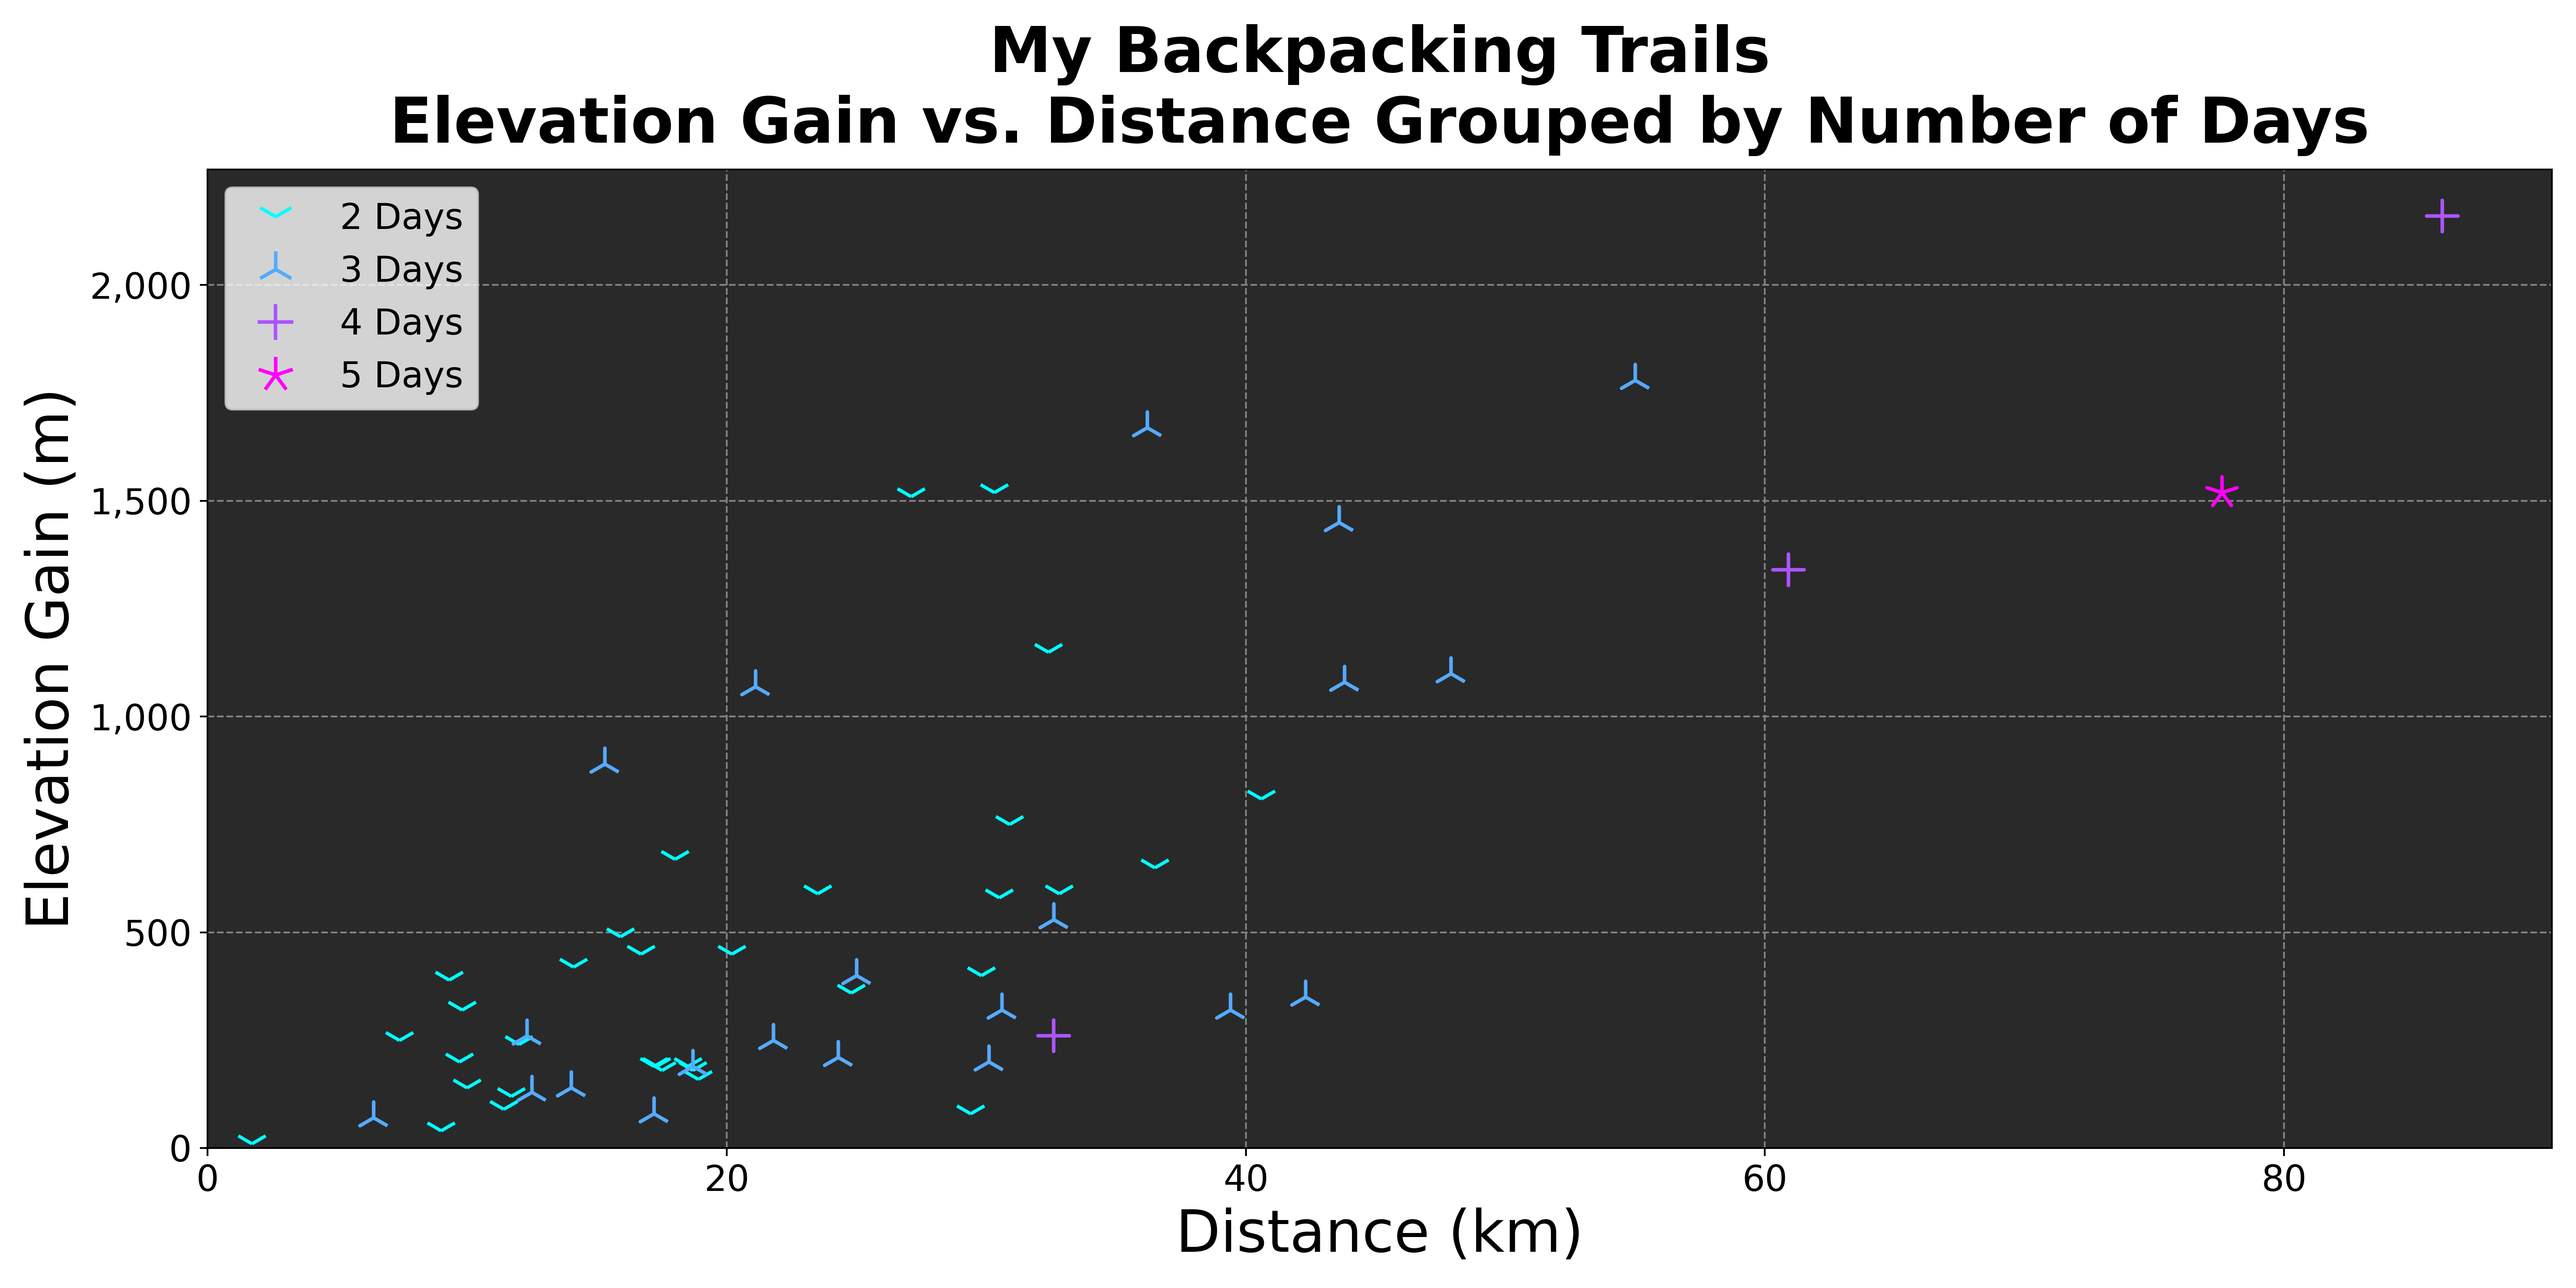
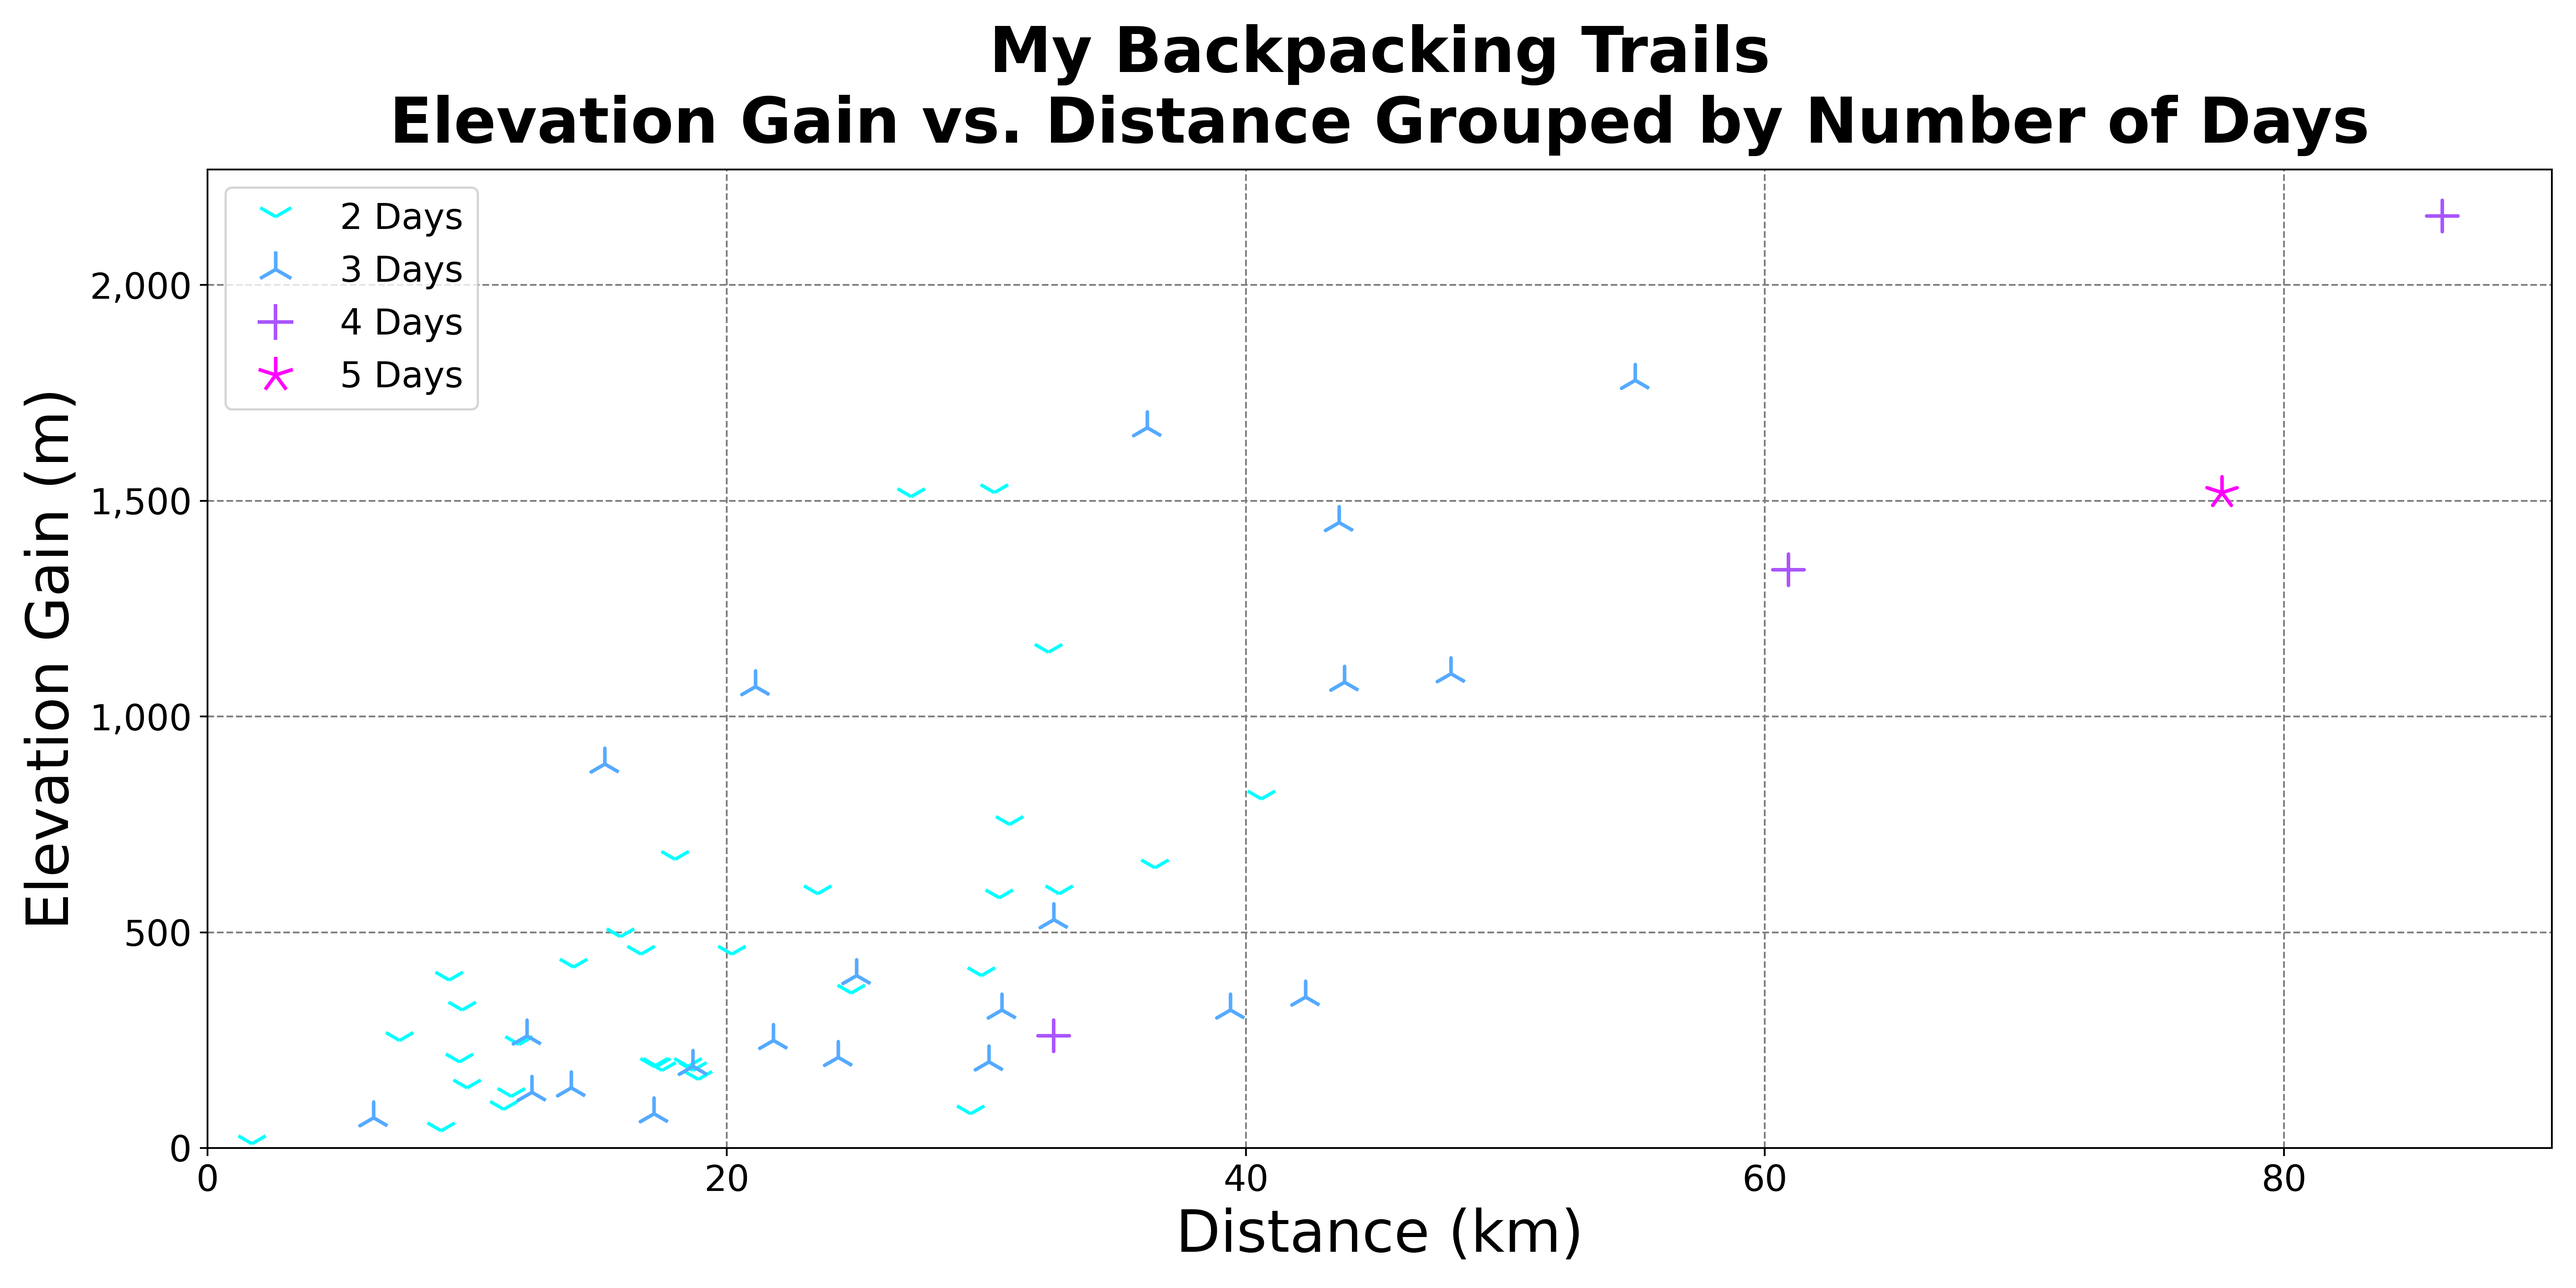
Remove stale images and fix README links
Several plot titles dropped their leading colon in an earlier edit,
which changed the filenames plotFilename() generates. The old
hyphenated filenames were orphaned but never removed, so images/ had
duplicate copies under both names. Removed the 9 stale files and
pointed the README's plot links at the current filenames.

diff --git a/README.md b/README.md
@@ -12,14 +12,14 @@ MyTrails is a project exploring my personal backpacking statistics, featuring a 
 
 ## Plots
 
-![Elevation gain vs. distance, by number of days](images/MyBackpackingTrails-ElevationGainvsDistanceGroupedbyNumberofDays.png)
-![Cumulative distance over time](images/MyBackpackingTrails-CumulativeDistance.png)
+![Elevation gain vs. distance, by number of days](images/MyBackpackingTrailsElevationGainvsDistanceGroupedbyNumberofDays.png)
+![Cumulative distance over time](images/MyBackpackingTrailsCumulativeDistance.png)
 ![Distance grouped by park](images/MyBackpackingTrails-DistanceGroupedbyPark.png)
-![Trail counts by day of week and month](images/MyBackpackingTrails-TrailCountsbyDayofWeekandMonth.png)
-![Trail density by day of year](images/MyBackpackingTrails-TrailCountsbyDayofYear.png)
-![Elevation gain vs. distance, by difficulty](images/USABackpackingTrails-ElevationGainvsDistanceGroupedbyDifficulty.png)
-![Trail counts by difficulty and enjoyment](images/USABackpackingTrails-TrailCountsbyDifficultyandEnjoyment.png)
-![Elevation gain vs. distance, by predicted difficulty](images/MyBackpackingTrails-ElevationGainvsDistancewithEstimatedDifficulty.png)
+![Trail counts by day of week and month](images/MyBackpackingTrailsTrailCountsbyDayofWeekandMonth.png)
+![Trail density by day of year](images/MyBackpackingTrailsTrailCountsbyDayofYear.png)
+![Elevation gain vs. distance, by difficulty](images/USABackpackingTrailsElevationGainvsDistanceGroupedbyDifficulty.png)
+![Trail counts by difficulty and enjoyment](images/USABackpackingTrailsTrailCountsbyDifficultyandEnjoyment.png)
+![Elevation gain vs. distance, by predicted difficulty](images/MyBackpackingTrailsElevationGainvsDistancewithEstimatedDifficulty.png)
 
 ## Machine Learning
 
